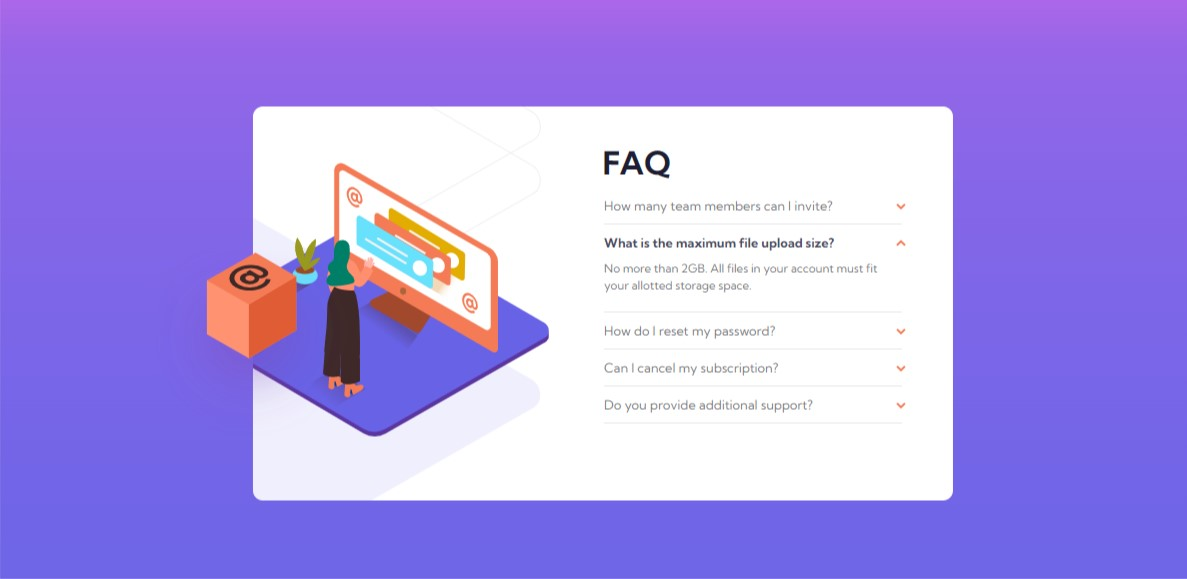
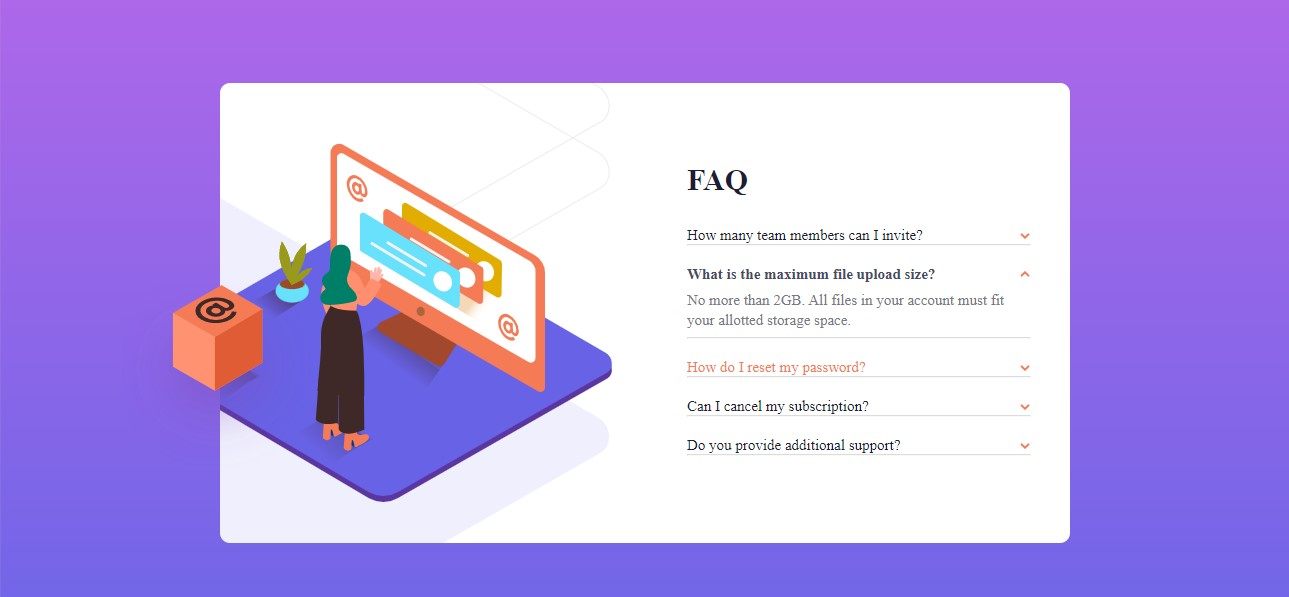
readme updated

Changed region(s): [[0.1247, 0.1244, 0.8416, 0.9326]]

diff --git a/index.html b/index.html
@@ -13,46 +13,34 @@
 <body>
     <div class="cube">
         <div class="container">
-            <div class="card-images">
-                <div class="pattern"><img src="./images/bg-pattern-desktop.svg" alt=""></div>
-                <div class="illustration"><img src="./images/illustration-woman-online-desktop.svg" alt=""></div>
-            </div>
-            <div class="card-details">
+            <div class="pattern"></div>
+            <div class="faq">
                 <h1>FAQ</h1>
-                <!-- fieldset tag -->
-                <fieldset>
-                    <!-- details tag -->
-                    <details>
-                        <!-- summary tag -->
-                        <summary>How many team members can I invite?</summary>
-                        <p>You can invite up to 2 additional users on the Free plan. There is no limit on team members for the Premium plan.</p>
-                    </details>
-                </fieldset>
-                <fieldset>
-                    <details>
-                        <summary>What is the maximum file upload size?</summary>
-                        <p>No more than 2GB. All files in your account must fit your allotted storage space.</p>
-                    </details>
-                </fieldset>
-                <fieldset>
-                    <details>
-                        <summary>How do I reset my password?</summary>
-                    <p> Click “Forgot password” from the login page or “Change password” from your profile page.
-                        A reset link will be emailed to you. </p>   
-                    </details>
-                </fieldset>
-                <fieldset>
-                    <details>
-                        <summary>Can I cancel my subscription?</summary>
-                    <p> Yes! Send us a message and we’ll process your request no questions asked.</p>
-                    </details>
-                </fieldset>
-                <fieldset>
-                    <details>
-                        <summary>Do you provide additional support?</summary>
-                        <p>Chat and email support is available 24/7. Phone lines are open during normal business hours.</p>
-                    </details>
-                </fieldset>
+                <details>
+                    <summary>How many team members can I invite?</summary>
+                    <p>You can invite up to 2 additional users on the Free plan. There is no limit on team members for the Premium plan.</p>
+                </details>
+                <hr>
+                <details>
+                    <summary>What is the maximum file upload size?</summary>
+                <p> No more than 2GB. All files in your account must fit your allotted storage space.</p>
+                </details>
+                <hr>
+                <details>
+                    <summary>How do I reset my password?</summary>
+                <p>Click “Forgot password” from the login page or “Change password” from your profile page. A reset link will be emailed to you.</p>   
+                </details>
+                <hr>
+                <details>
+                    <summary>Can I cancel my subscription?</summary>
+                <p>Yes! Send us a message and we’ll process your request no questions asked.</p> 
+                </details>
+                <hr>
+                <details>
+                    <summary>Do you provide additional support?</summary>
+                <p> Chat and email support is available 24/7. Phone lines are open during normal business hours.</p> 
+                </details>
+                <hr>
             </div>
         </div>
     </div>

diff --git a/css/style.css b/css/style.css
@@ -1,125 +1,108 @@
-
-/* css reset  */
 *{
     padding: 0;
     margin: 0;
     box-sizing: border-box;
 }
+html{
+    font-size: 62.5%;
+}
 body{
+    margin: 0 auto;
     height: 100vh;
-    background: linear-gradient(hsl(273, 75%, 66%),20%, hsl(240, 73%, 65%))no-repeat;
-    font-family: 'Kumbh Sans', sans-serif;
+    background: linear-gradient(hsl(273, 75%, 66%),hsl(240, 73%, 65%))no-repeat center center/cover;
 }
- /* container  */
 .container{
-    margin: auto;
-    max-width: 900px;
+    margin: 10rem auto;
     background-color: #fff;
-    display: grid;
-    grid-template-columns:1fr 1fr;
-    width: 700px;
-    height:60vh;
-    overflow: hidden;  
+    display: flex;
+    flex-flow: row-reverse;
+    height: 70vh;
     border-radius: 10px;
-    margin-top: 7rem;
-}
- /* card images  */
-.card-images{
+    width: 850px;
+    max-width: 900px;
+    overflow: hidden;
     position: relative;
 }
-.pattern img {
-    width: 100%;
-}
- /* pattern */
 .pattern{
-    width: 43rem;
+    content: url(../images/bg-pattern-desktop.svg);
+    width: 100%;
+    top: -24rem;
+    left: -46rem;
     position: absolute;
-    top: -12rem;
-    left: -25rem;
 }
- /* illustration  */
-.illustration img {
-    width: 75%;
-}
-.illustration {
-    width: 30rem;
+.container::after{
+    content: url(../images/illustration-woman-online-desktop.svg);
+    overflow: hidden;
+    width: 59%;
     position: absolute;
-    top: 3.5rem;
-    left: -4rem;
+    top: 6rem;
+    left: -8rem;
 }
- /* cube  */
 .cube{
     position: relative;
+    width: 850px;
     max-width: 900px;
-    width:750px;
     margin: auto;
 }
 .cube::after{
     content: url(../images/illustration-box-desktop.svg);
     position: absolute;
-    top: 9rem;
-    left: -4.5rem;
+    top:200px;
+    left:-98px;
 }
-.card-details{
-    margin: 3rem 0;
-    line-height: 1.1rem;
-}
+.faq{
+    font-size: 1.5rem;
+    overflow: hidden;
+    display: block;
+    width: 45%;
+    margin: 8rem 0;
+    height: 100%;
+    outline: none;
+}    
 h1{
     margin-bottom: 1rem;
     font-weight: 700;
     color: hsl(238, 29%, 16%); 
 }
- /* fieldset */
-fieldset{
-    border: none;
-    border-bottom-width: 1px;
-    width: 100%;
-    position: relative;
-    margin-left: -0.5rem;
-    padding: 0.6rem;
+details{
+    padding-top: 2rem;
 }
-fieldset:before {
-    content: "";
-    position: absolute;
-    bottom: 0;
-    width: 85%;
-    border-bottom: solid thin hsl(240, 5%, 91%);
-}
- /* summary */
 summary{
     list-style: none;
     cursor: pointer;
     position: relative;
+    color: hsl(238, 29%, 16%); 
     font-weight: 400;
-    font-size: 0.8rem;
-    color: hsl(240, 6%, 50%); 
     outline: none;
 }
-/* psuedo element after  */
 summary::after{
     content: url(../images/icon-arrow-down.svg);
     position: absolute;
-    right: 1.8rem;
+    right: 4rem;
+    transform: scaleX(1);
 }
-/* psuedo class hover */
-summary:hover {
-    color:  hsl(14, 88%, 65%);
+ summary:hover {
+    color: hsl(14, 88%, 65%);
     font-weight: 400;  
-}
+ }
 details[open] summary{
     color: hsl(237, 12%, 33%);
     font-weight: 700;
 }
 details[open] summary:after {
-    transform: rotate(180deg);
-    transition: all .5s;
-    /* transform: scaleX(-1); */
+ transform: rotate(180deg);
+ transition: all .5s;
+    
 }
- /* paragraph */
 details p{
-    padding: 0.5rem 2rem 0.5rem 0;
+    padding: 0.7rem 0 0.7rem 0;
     color: hsl(240, 6%, 50%);
-    font-size: 0.72rem;
-    width: 100%;
+    font-size: 15px;
+    width: 90%;
+    line-height: 2rem;
 }
-
+hr{
+    opacity: 35%;
+    color: solid thin hsl(240, 5%, 91%);
+    width: 90%;
+}

diff --git a/css/mobile.css b/css/mobile.css
@@ -1,71 +1,72 @@
-/* media query mobile */
-body{
-    margin: auto;
-}
 .container{
+    margin-top: 15rem;
     background-color: #fff;
-    background-position:center top;
-    background-repeat: no-repeat;
-    width:322px;
-    border-radius: 12px;  
-    max-width: 310px;
-    height:80vh;
-    display: block;  
+    display: block;
+    height: 70vh;
+    border-radius: 10px;
+    width: 300px;
+    max-width: 350px;
     overflow: hidden;
-    margin: 9rem auto;
-}
-.illustration {
-    display: none;
+    position: relative;
 }
 .pattern{
-    width: 240px;
-    position: absolute;
-    top: -138px;
-    left: 32px;
+    display: none;
+}
+.container::after{
+    content: url(../images/bg-pattern-mobile.svg);
+    width: 100%;
+    left: 3rem;
+    top: 0rem;
 }
 .cube{
+    margin: auto;
     position: relative;
-    width:300px;
-    max-width:350px ;
-    margin: 3px auto;
-    height: 100vh;
+    width: 300px;
+    max-width: 350px;
 }
 .cube::after{
     content: url(../images/illustration-woman-online-mobile.svg);
-    position: absolute;
-    width: 70%;
-    top: -92px;  
-    left: 49px;   
-    overflow: hidden;
+    width: 75%;
+    top: -10rem;
+    left: 3.5rem;
 }
-.card-details{
-    margin-top: 9rem;
-    line-height: 1.2rem;
-}
-h1{
-    text-align: center;
-}
-fieldset{
+.faq{
+    font-size: 1.5rem;
+    height: 100%;
+    outline: none;
+    margin-top: 12rem;
     width: 100%;
-    position: relative;
-    margin-left: 0.5rem;
-    padding: 0.7rem;
-    margin-bottom: 0;
-}
-fieldset:before {
-    width: 86%;
-}
-summary{
-    font-size: 0.88rem;
-    width: 90%;
+    padding: 1rem 1rem ;
+}  
+ h1{
+     text-align: center;
+     margin: auto;
+     margin-bottom: 1rem; 
+     margin-top: 1rem;
+ }
+ details{
+    padding-top: 1rem;
 }
 details p{
-    font-size: 0.8rem;
-    line-height: 1.2rem;
+     width: 96%;
+     font-size: 12px;
+ }
+summary{
+    outline: none;
     width: 100%;
+    padding: 0.8rem 0;
+    font-size: 13px;
+}
+details[open] summary{
+    font-weight: 400;   
 }
 summary::after{
-    content: url(../images/icon-arrow-down.svg);
-    position: absolute;
-    right: -1rem;
+     right: 1rem;
+ }
+ details[open] summary:after {
+ transform: rotate(-180deg);
+ transition: all .5s;
 }
+ hr{
+     width: 96%;
+ }

diff --git a/README.md b/README.md
@@ -21,8 +21,6 @@ This is a solution to the [FAQ accordion card challenge on Frontend Mentor](http
 ### Screenshot
 
 ![](./images/screenshot.jpg)
-![](./images/screenshot2.jpg)
-
 
 ### Links
 
@@ -35,7 +33,6 @@ This is a solution to the [FAQ accordion card challenge on Frontend Mentor](http
 - Semantic HTML5 markup
 - CSS custom properties
 - Flexbox
-- CSS Grid
 
 ### What I learned
 
